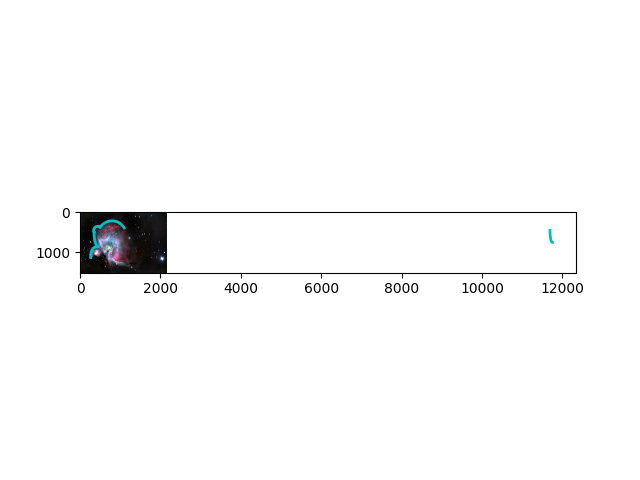
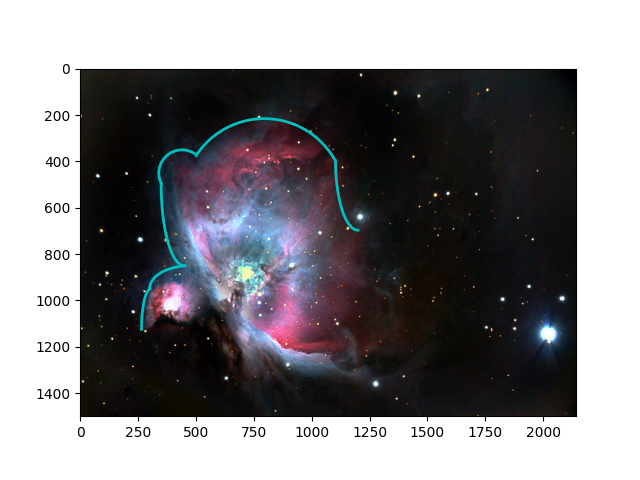
рпмпр

diff --git a/orion.py b/orion.py
@@ -33,8 +33,8 @@ y5 = 565 - 350*np.sin(t5)
 ax.plot(x5, y5, '-', lw=2, color='c')
 
 t6 = np.linspace(np.pi,3*np.pi/2, 100)
-x6 = 11750 + 60*np.cos(t6)
-y6 = 450 - 300*np.sin(t6)
+x6 = 1200 + 97*np.cos(t6)
+y6 = 397 - 300*np.sin(t6)
 ax.plot(x6, y6, '-', lw=2, color='c')
 
 
